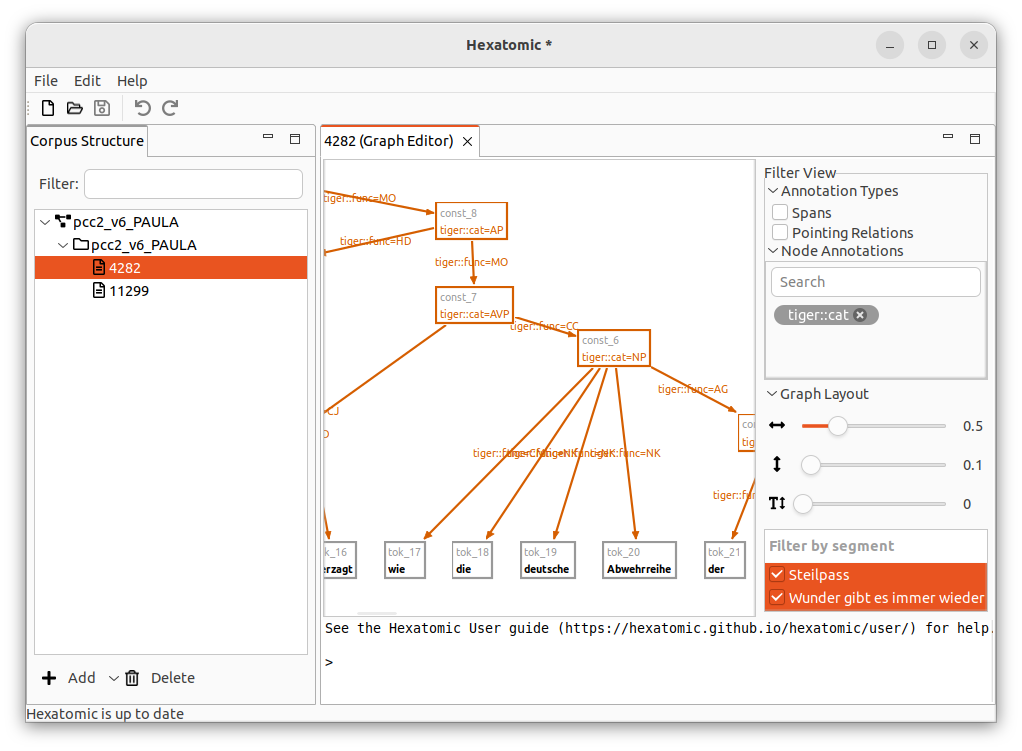
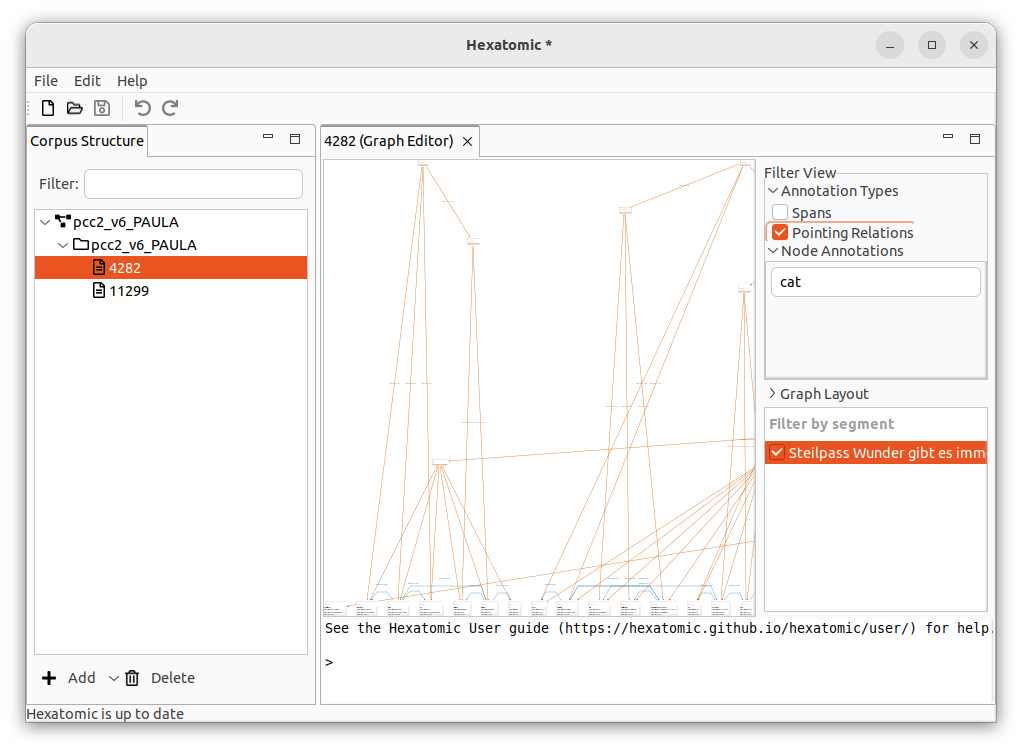
Add annotation to pcc2 example

diff --git a/docs/user/src/howtos/example-import.md b/docs/user/src/howtos/example-import.md
@@ -1,4 +1,4 @@
-# Import an example corpus
+# Import and annotate an example corpus
 
 We will import an example corpus from the [ANNIS demo corpus
 page](https://corpus-tools.org/annis/corpora.html), namely the so-called
@@ -11,9 +11,15 @@ It contains several annotation layers, like constituent trees, dependency trees 
 4. Choose the *Import* entry in the *File* menu.
 5. Click on the button with the *...* caption and navigate to the unzipped `pcc2_v6_PAULA` folder. Then click on *Next*.
 ![Select a corpus folder in the import wizard](select-pcc2-folder.png)
-1. The importer should correctly identify this corpus as “PAULA format”. Click on *Finish* to import the corpus.
+6. The importer should correctly identify this corpus as “PAULA format”. Click on *Finish* to import the corpus.
 ![Format selection wizard step](pcc2-finish.png)
-1. Unfold the corpus and in the “Corpus Structure” and right-click on the “4282” document, select “Open with Graph Editor”. You [filter](../usage/graph-editor/filter.md) the view to only show nodes with the `tiger::cat` annotation, to focus on the constituent trees.
+7. Unfold the corpus and in the “Corpus Structure” and right-click on the “4282” document, select “Open with Graph Editor”.
 ![Graph editor with the openend document](pcc2-graph-editor.png)
-1. If you like, add new annotations using the [console](../usage/graph-editor/console.md).
+8. This shows the whole document as a graph, but we are only interested in the constituent tree for now. Expand “Annotation Types” and “Node annotations” in the [Filter View](../usage/graph-editor/filter.md). Unselect “Pointing Relations”. 
+Then type `cat` into the “Search” field and click on the `tiger::cat` filter badge. 
+This still shows the whole document, but now we can select the segments we are interested in.
+Click on the first three segments while holding the <kbd>Ctrl</kbd> key.
+![Graph editor with selected segments](pcc2-select-segments.png)
+1. Add new annotations using the [console](../usage/graph-editor/console.md). To add a root node connecting the trailing token “!” with the sentence constituent node, enter `n tiger:cat:ROOT  #tok_7 #const_2` to the console and press <kbd>Enter</kbd>. Note that the segmentation changes because we connected the previously separate segments.   
+![Adding a root node with the graph editor](pcc2-add-root-node.png)
 2. Save the project via by clicking on the *File* menu and then *Save Salt Project As...* to persist the changes as a [project](../usage/projects.md).

diff --git a/docs/user/src/SUMMARY.md b/docs/user/src/SUMMARY.md
@@ -21,6 +21,6 @@
   	- [Refactoring](usage/refactoring/README.md)
 - [Troubleshooting & getting help](./troubleshooting.md)
 - [HOW-TOs](./howtos/README.md)
-    - [Import an example corpus](howtos/example-import.md)
+    - [Import and annotate a corpus](howtos/example-import.md)
     - [Creating a corpus from scratch](howtos/corpus-creation.md)
     - [Import a corpus from EXMARaLDA](howtos/exmaralda-import.md)
